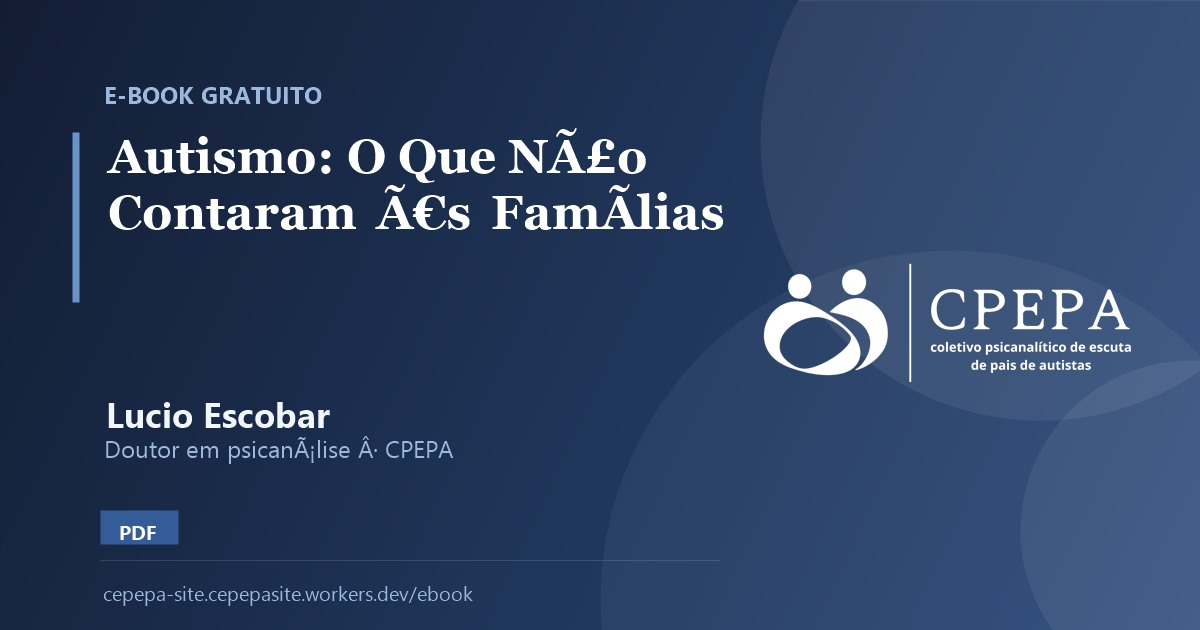
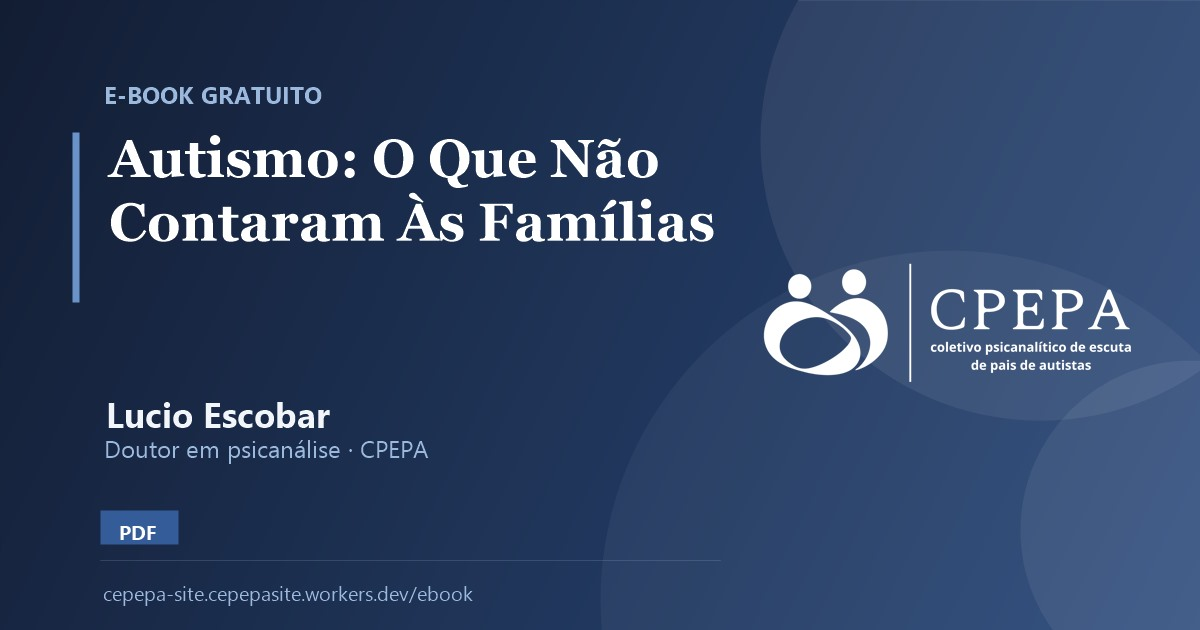
fix: corrige acentos da imagem OG do e-book

Changed region(s): [[0.0925, 0.2111, 0.6167, 0.3921], [0.2467, 0.6937, 0.37, 0.7238]]

diff --git a/src/app/ebook/page.tsx b/src/app/ebook/page.tsx
@@ -19,7 +19,7 @@ export const metadata: Metadata = {
     locale: "pt_BR",
     images: [
       {
-        url: "/ebook/og-contaram.jpg",
+        url: "/ebook/og-contaram-v2.jpg",
         width: 1200,
         height: 630,
         alt: "Capa do e-book Autismo: O Que Não Contaram Às Famílias",
@@ -31,7 +31,7 @@ export const metadata: Metadata = {
     title: "E-book: Autismo — O Que Não Contaram Às Famílias",
     description:
       "Informação ampla, honesta e contextualizada para famílias que querem mais do que uma única narrativa sobre o autismo.",
-    images: ["/ebook/og-contaram.jpg"],
+    images: ["/ebook/og-contaram-v2.jpg"],
   },
 };
 
@@ -103,7 +103,7 @@ const jsonLd = {
   name: "Autismo: O Que Não Contaram Às Famílias",
   description:
     "E-book sobre o que costuma ficar de fora quando uma família recebe o diagnóstico de autismo: limites das pesquisas, conflitos de interesse, efeitos das intervenções intensivas e a escuta dos próprios autistas.",
-  image: `${SITE_URL}/ebook/og-contaram.jpg`,
+  image: `${SITE_URL}/ebook/og-contaram-v2.jpg`,
   inLanguage: "pt-BR",
   bookFormat: "https://schema.org/EBook",
   author: {

diff --git a/PLANO_EBOOK_CPEPA.md b/PLANO_EBOOK_CPEPA.md
@@ -67,7 +67,7 @@ O nome original do PDF contém acento e espaços. O nome de destino deve ser seg
 Gerar, a partir da capa original (1086×1448):
 
 - `public/ebook/capa.jpg` — aproximadamente 800 px de largura, qualidade 85, para o hero e o banner da home.
-- `public/ebook/og-contaram.jpg` — 1200×630, com a capa sobre fundo `brand-950`, para Open Graph e Twitter Card.
+- `public/ebook/og-contaram-v2.jpg` — 1200×630, com a capa sobre fundo `brand-950`, para Open Graph e Twitter Card.
 
 O PNG original pode ser mantido em `public/ebook/capa.png` como fonte, mas a página deve usar o JPG otimizado para não carregar 2,1 MB no hero.
 
@@ -332,7 +332,7 @@ Em `src/app/ebook/page.tsx`:
 - `description`: resumo do material e do formulário.
 - `openGraph`:
   - título e descrição;
-  - `images: [{ url: "/ebook/og-contaram.jpg", width: 1200, height: 630 }]`;
+  - `images: [{ url: "/ebook/og-contaram-v2.jpg", width: 1200, height: 630 }]`;
   - `type: "article"`.
 - `twitter.card`: `summary_large_image`.
 - `alternates.canonical: "/ebook"`.
@@ -483,7 +483,7 @@ Conteúdo do banner:
 
 - `public/ebook/capa.png`
 - `public/ebook/capa.jpg`
-- `public/ebook/og-contaram.jpg`
+- `public/ebook/og-contaram-v2.jpg`
 - `public/ebook/ebook-autismo-o-que-nao-contaram-as-familias.pdf`
 - `supabase/migrations/20261110000001_ebook_leads.sql`
 - `src/app/ebook/page.tsx`
@@ -513,7 +513,7 @@ Conteúdo do banner:
 
 - [ ] 1. Aplicar a migration no Supabase (SQL Editor ou CLI).
 - [ ] 2. Mover os assets da raiz para `public/ebook/` com nomes seguros.
-- [ ] 3. Gerar `capa.jpg` e `og-contaram.jpg` otimizados.
+- [ ] 3. Gerar `capa.jpg` e `og-contaram-v2.jpg` otimizados.
 - [ ] 4. Atualizar `src/lib/supabase/database.types.ts`.
 - [ ] 5. Criar `src/lib/whatsapp.ts`.
 - [ ] 6. Criar a landing `/ebook` e o formulário.
